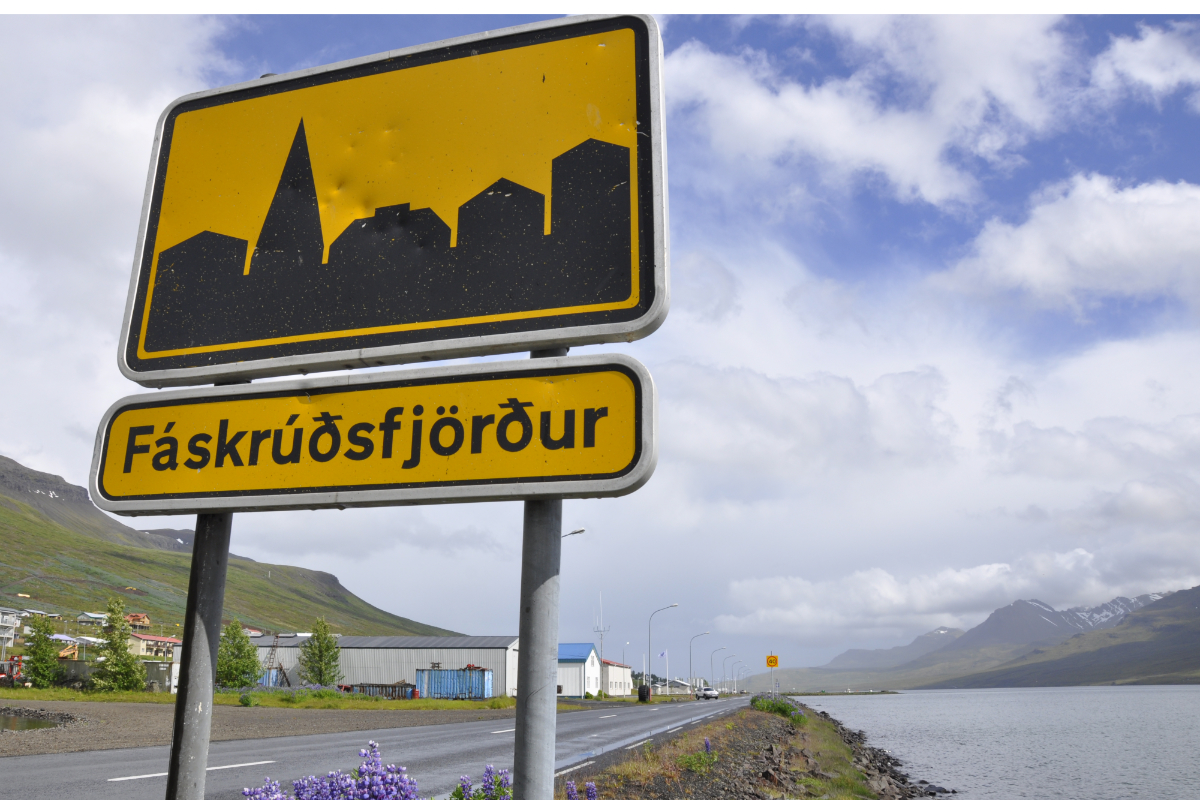
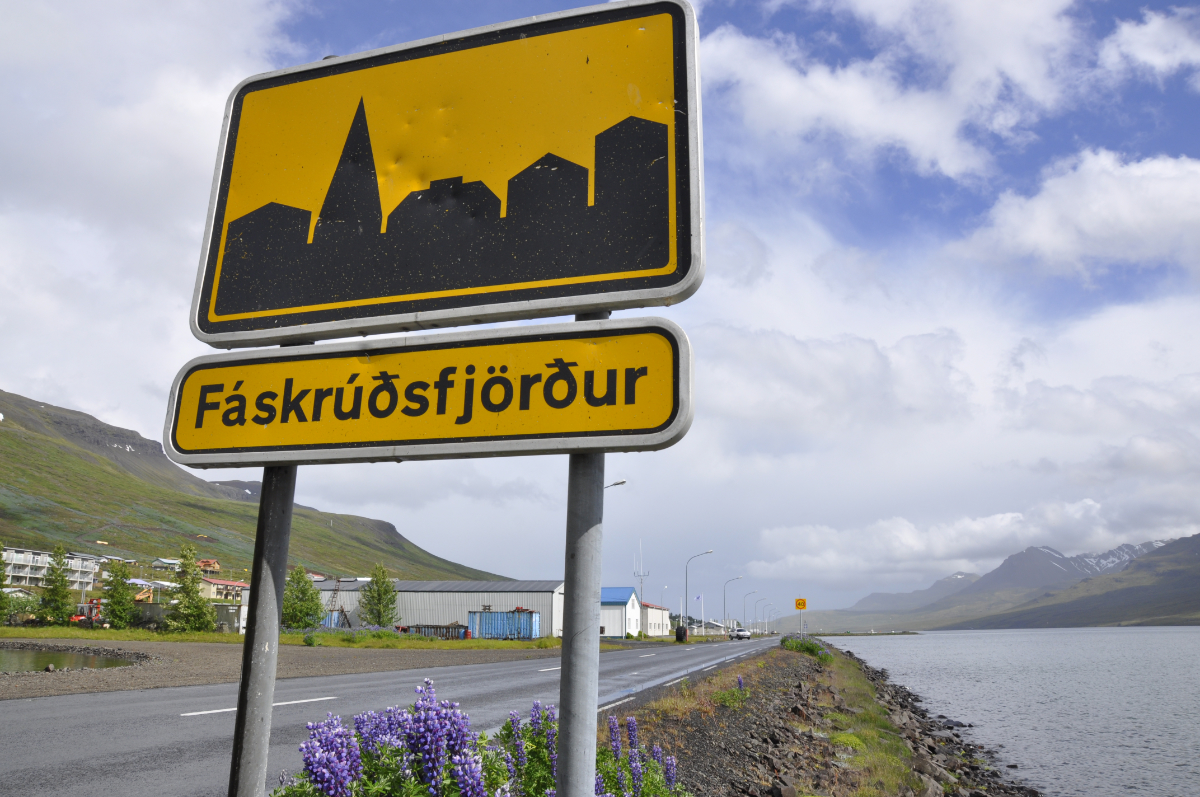
add img to story

diff --git a/Project_Nexter/CSS/style.css b/Project_Nexter/CSS/style.css
@@ -105,7 +105,22 @@ body {
 
 .story__pictures {
   background-color: #c69963;
-  grid-column: full-start / col-end 4; }
+  grid-column: full-start / col-end 4;
+  display: grid;
+  grid-template-rows: repeat(6, 1fr);
+  grid-template-columns: repeat(6, 1fr);
+  align-items: center; }
+
+.story__img--1 {
+  width: 100%;
+  grid-row: 2 / 6;
+  grid-column: 2 / 6; }
+
+.story__img--2 {
+  width: 115%;
+  grid-row: 4 / 6;
+  grid-column: 4 / 7;
+  z-index: 20; }
 
 .story__content {
   background-color: #f9f7f6;

diff --git a/Project_Nexter/sass/component/_story.scss b/Project_Nexter/sass/component/_story.scss
@@ -5,14 +5,22 @@
         grid-column: full-start / col-end 4;
 
         display: grid;
+        grid-template-rows: repeat(6, 1fr);
+        grid-template-columns: repeat(6, 1fr);
+        align-items: center;
     }
 
     &__img--1 {
         width: 100%;
+        grid-row: 2 / 6;
+        grid-column: 2 / 6;
     }
 
     &__img--2 {
-        width: 100%;
+        width: 115%;
+        grid-row: 4 / 6;
+        grid-column: 4 / 7;
+        z-index: 20;
     }
 
 
